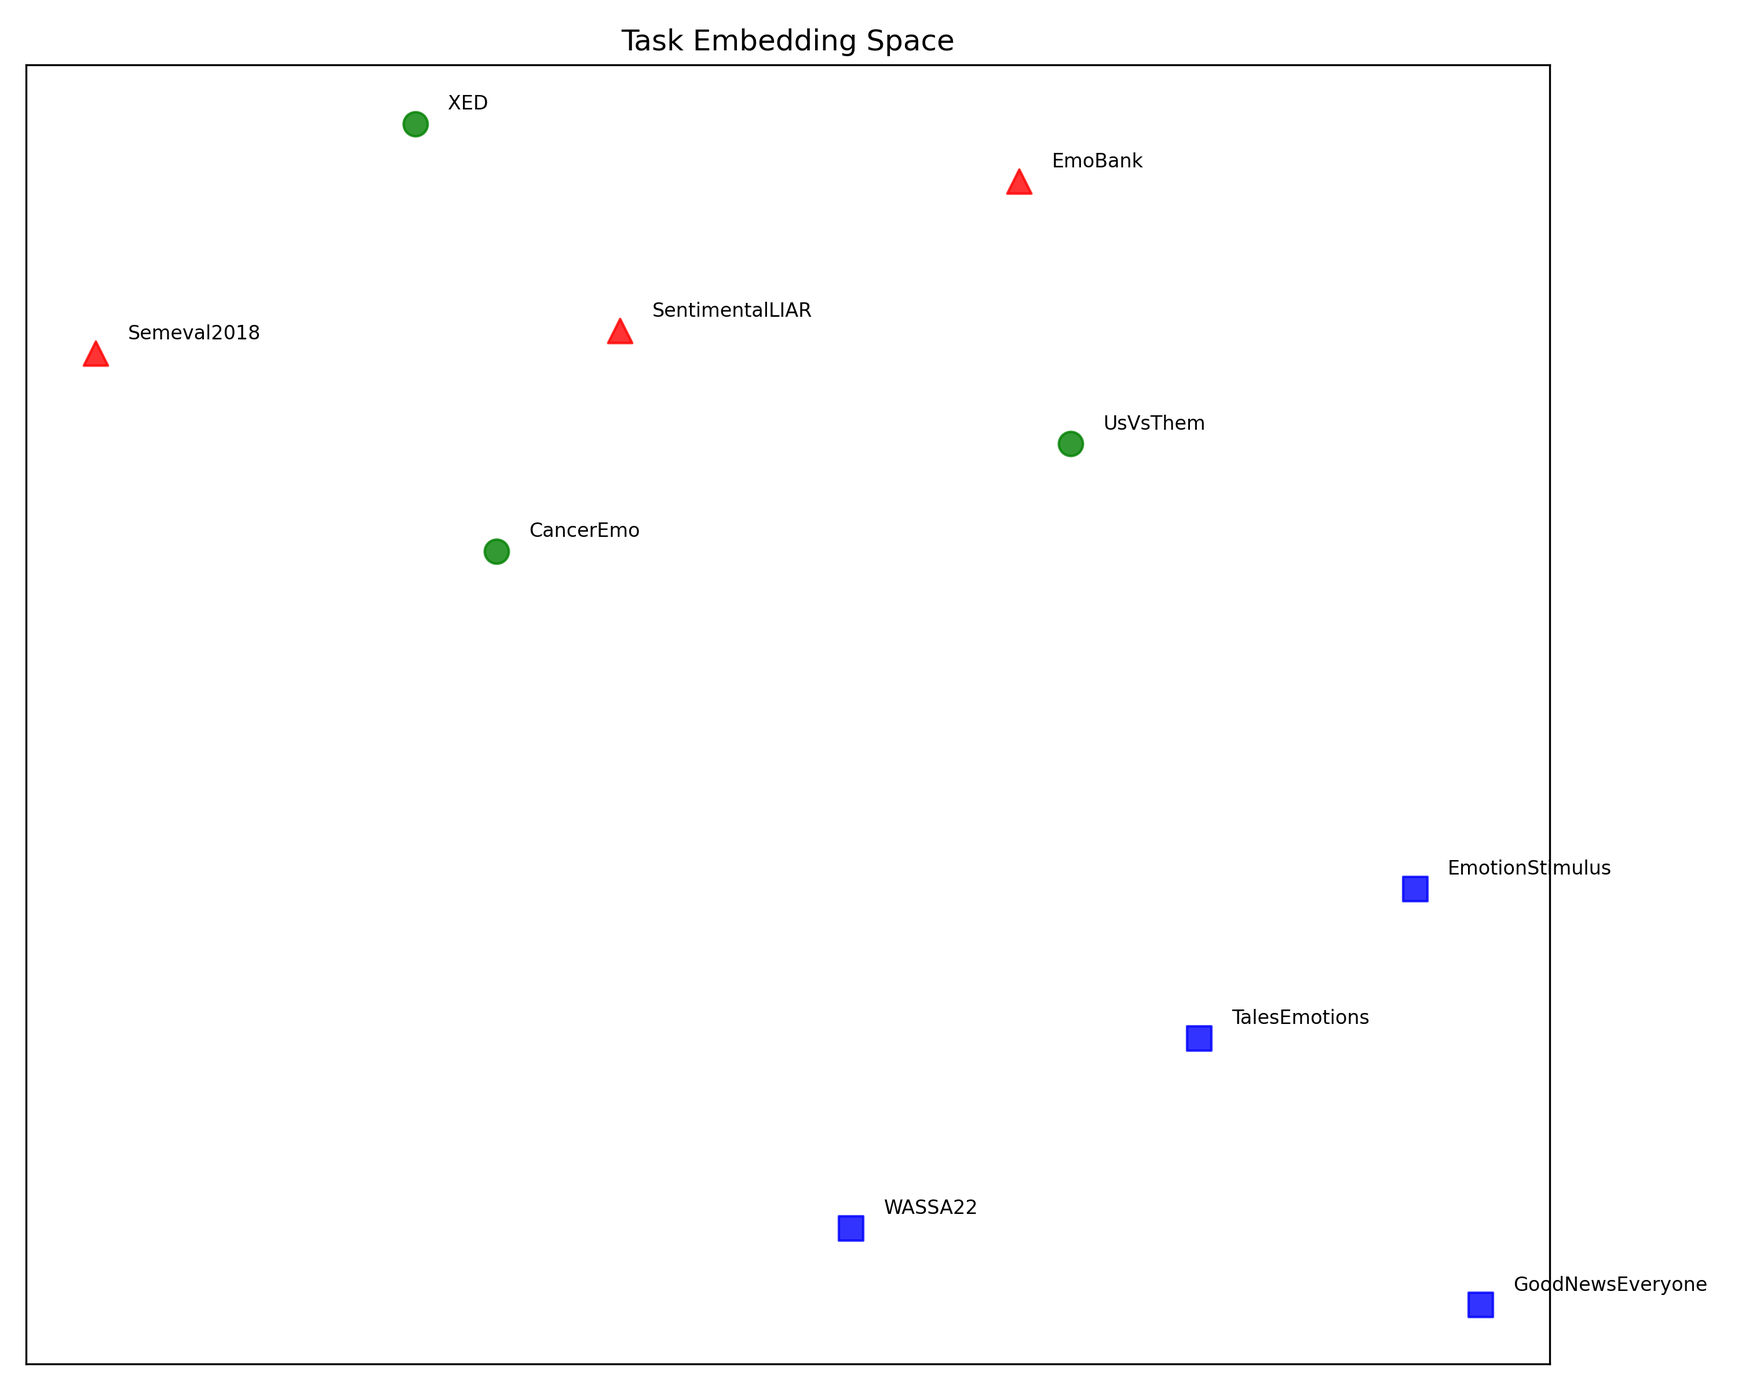
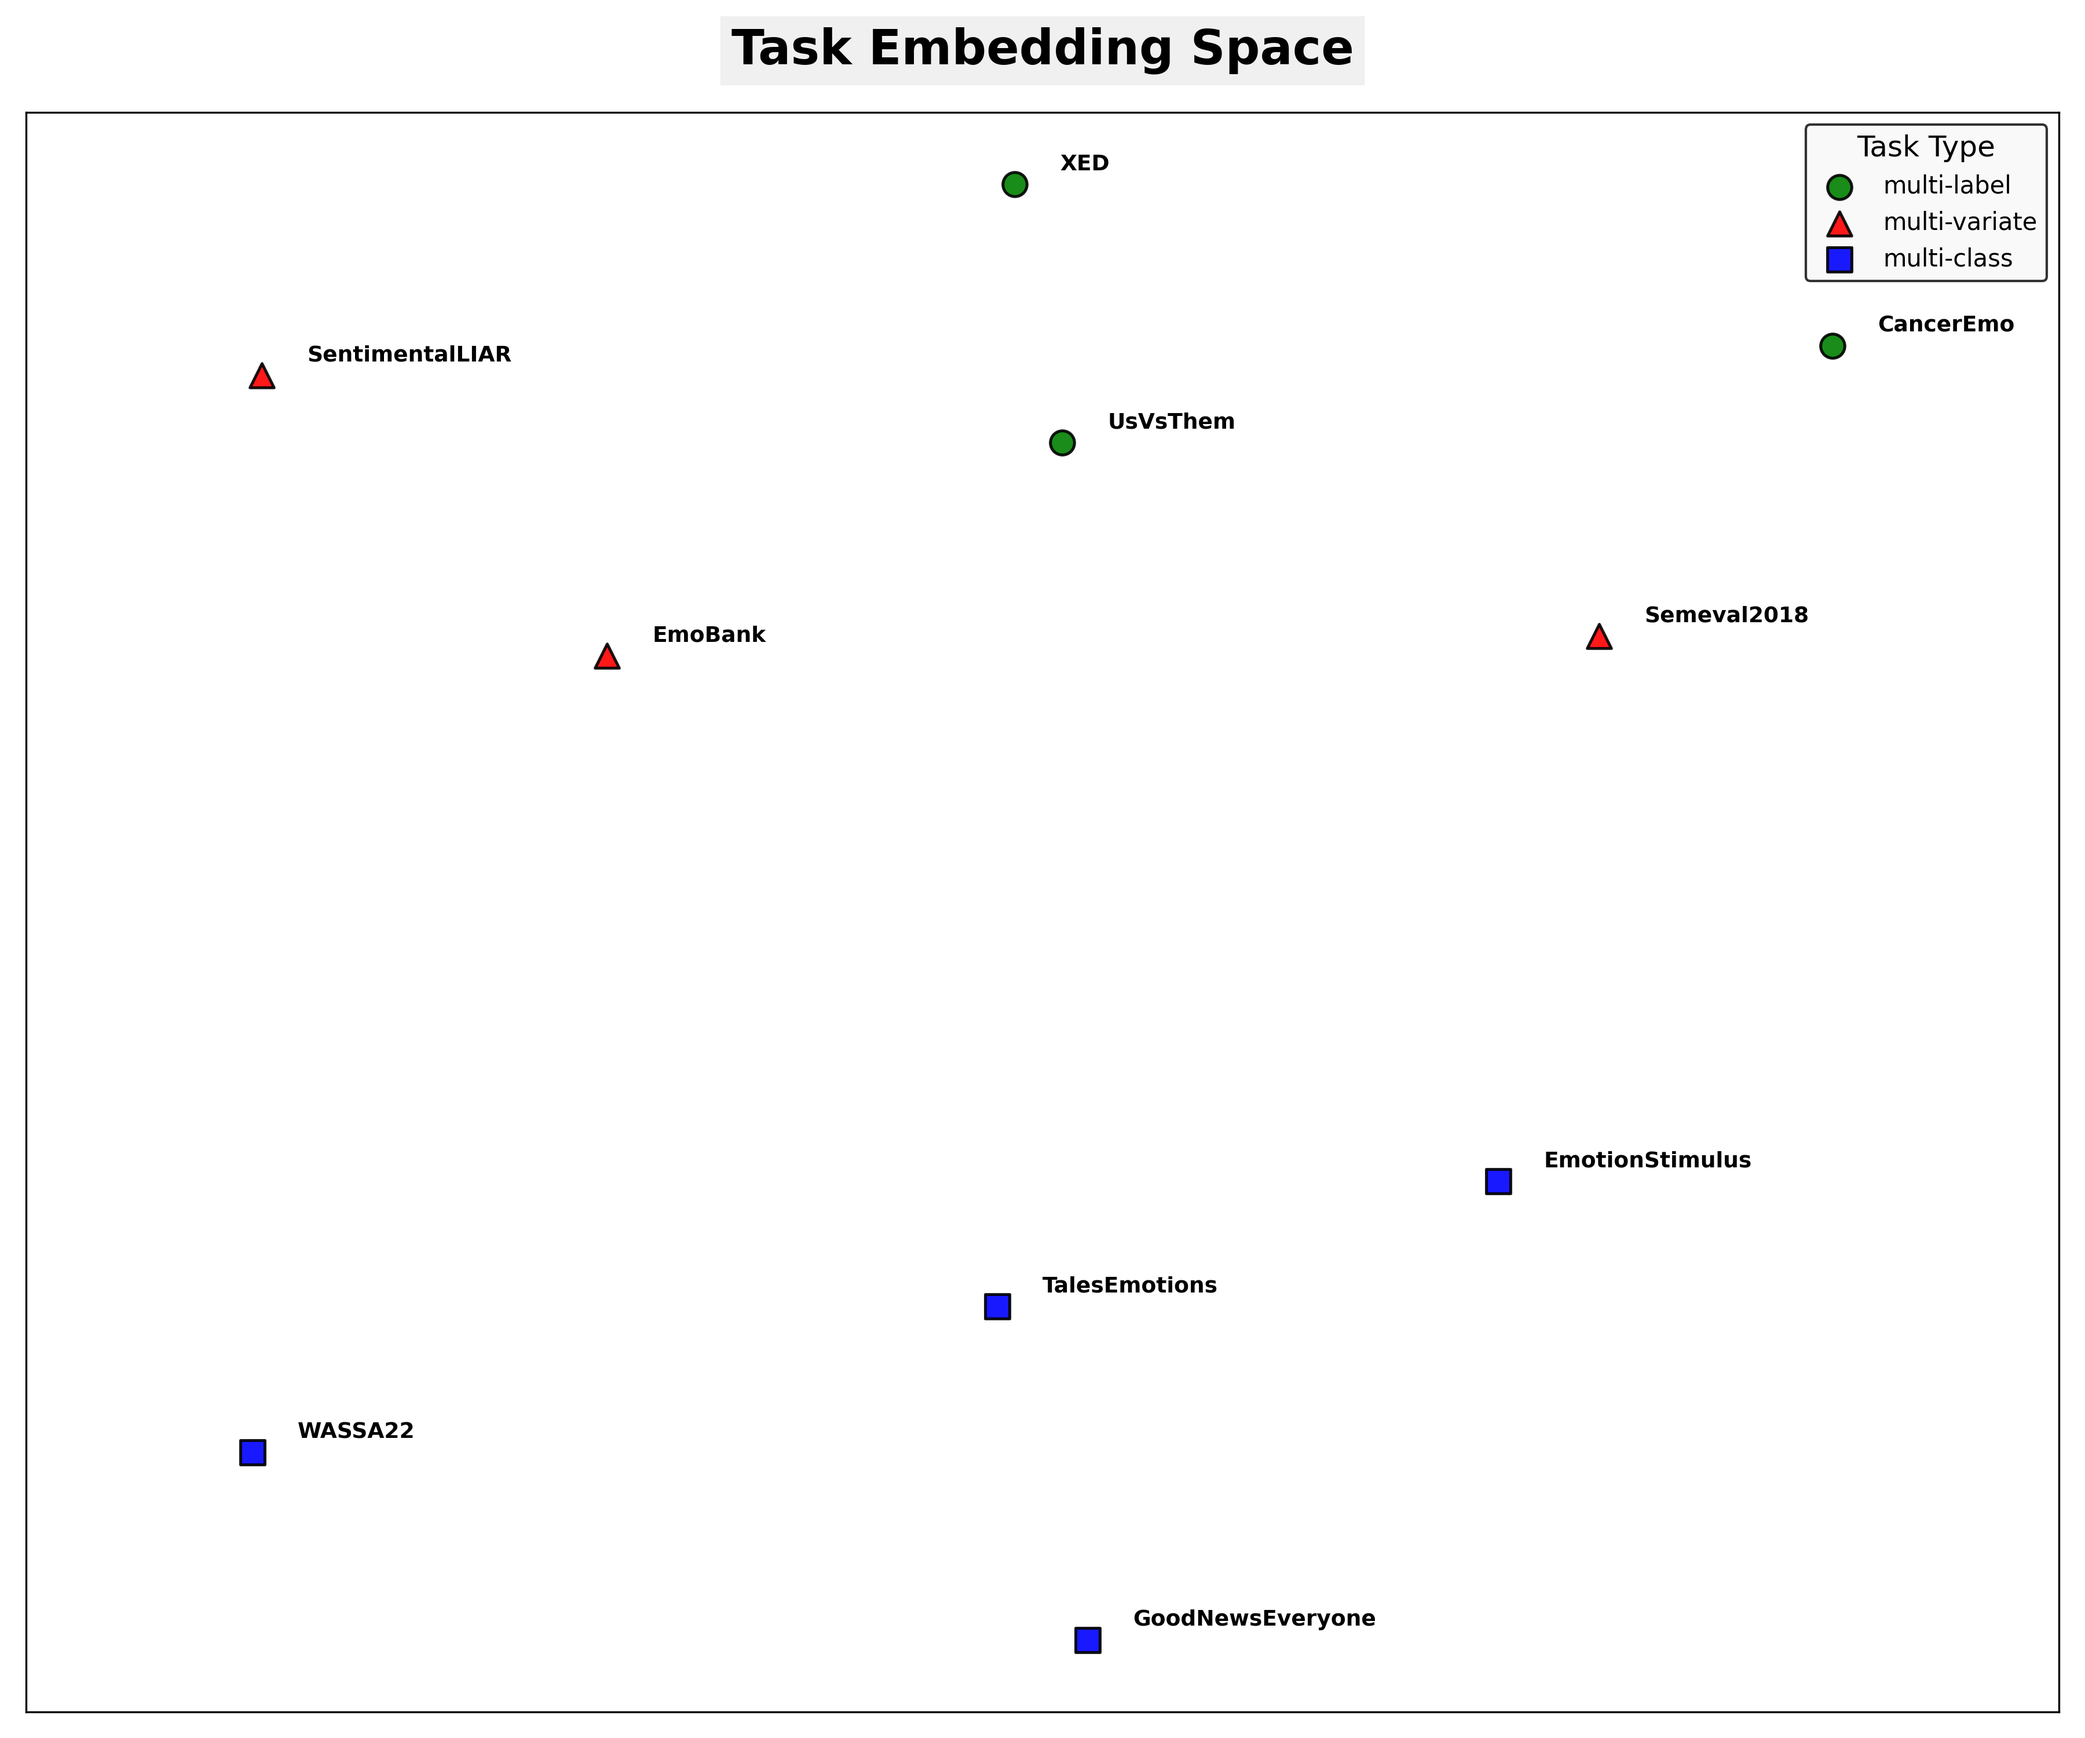
text embedding jobs added

diff --git a/get_text_embedding.py b/get_text_embedding.py
@@ -21,57 +21,41 @@ def compute_text_embedding_from_trainer(trainer, dataset, label_type, device):
     model.eval()
 
     encoder = model.deberta
-    classifier = model.classifier
-
-    # Make sure the encoder has gradient calculations active
-    for param in encoder.parameters():
-        param.requires_grad = True
 
     dataloader = trainer.get_eval_dataloader(dataset) # Create a dataloader so we can handle batches of data
 
-    squared_gradients = []
+    text_embedding = None
+    count = 0
+    with torch.no_grad():
+        for i, batch in enumerate(dataloader):
+            if i % 1 == 0: # print every 20 batches
+                print(f"handling batch {i} out of {len(dataloader)}")
+            
+            # Move the input to the right device
+            input_ids = batch["input_ids"].to(device)
+            attention_mask = batch["attention_mask"].to(device)
+            inputs = {
+                "input_ids": input_ids,
+                "attention_mask": attention_mask
+            }
 
-    for i, batch in enumerate(dataloader):
+            # Forward pass
+            outputs = encoder(**inputs)
+            pooled = model.pooler(outputs.last_hidden_state).detach()  # use the pooler to get the info the classifier needs, i do this because we also train the pooler when transfer learning, so this gives the best accurate task representation
+            
+            batch_sum = pooled.sum(dim=0)
+            batch_size = pooled.size(0)
+
+            # Save the task embedding of this batch, and essentially add all batches together (in the end we divide to get the mean)
+            if text_embedding is None:
+                text_embedding = batch_sum
+            else:
+                text_embedding += batch_sum
+            count += batch_size
         
-        # Move the input to the right device
-        input_ids = batch["input_ids"].to(device)
-        attention_mask = batch["attention_mask"].to(device)
-        inputs = {
-            "input_ids": input_ids,
-            "attention_mask": attention_mask
-        }
-        labels = batch['labels'].to(device)
+        text_embedding /= count # Divide by the amount of batches we handled
 
-        encoder.zero_grad() # Make sure to clear out the gradients before computing new
-        classifier.zero_grad()
-
-        # Forward pass
-        outputs = encoder(**inputs)
-        cls_embeddings = outputs.last_hidden_state[:, 0, :]  # Get the last layer (the one before the classifier)
-        logits = classifier(cls_embeddings) # Get the logits, which we need to compute the loss (which gives us the gradients)
-
-        # This step needs to be dependent on the task, so for multi-label/multi-class/multi-variate u need a different loss function
-        if label_type == 'multi-label':
-            loss_fn = torch.nn.functional.binary_cross_entropy_with_logits
-        elif label_type == 'multi-class':
-            loss_fn = torch.nn.functional.cross_entropy
-        elif label_type == 'multi-variate':
-            loss_fn = torch.nn.functional.mse_loss
-
-        loss = loss_fn(logits, labels)
-        loss.backward()
-
-        grads = []
-        for param in encoder.parameters():
-            if param.grad is not None:
-                grads.append((param.grad.detach() ** 2).flatten()) # Flatten and square the gradients of each parameter
-
-        squared_gradients.append(torch.cat(grads)) # Add this batch of squared gradients to the array
-    
-    stacked_gradients = torch.stack(squared_gradients)
-    task_embedding = stacked_gradients.mean(dim=0) # .mean() is to take the average over all computed batches
-
-    return task_embedding
+        return text_embedding
 
 def parse_args():
     parser = argparse.ArgumentParser(description="Bert variant task embedding")
